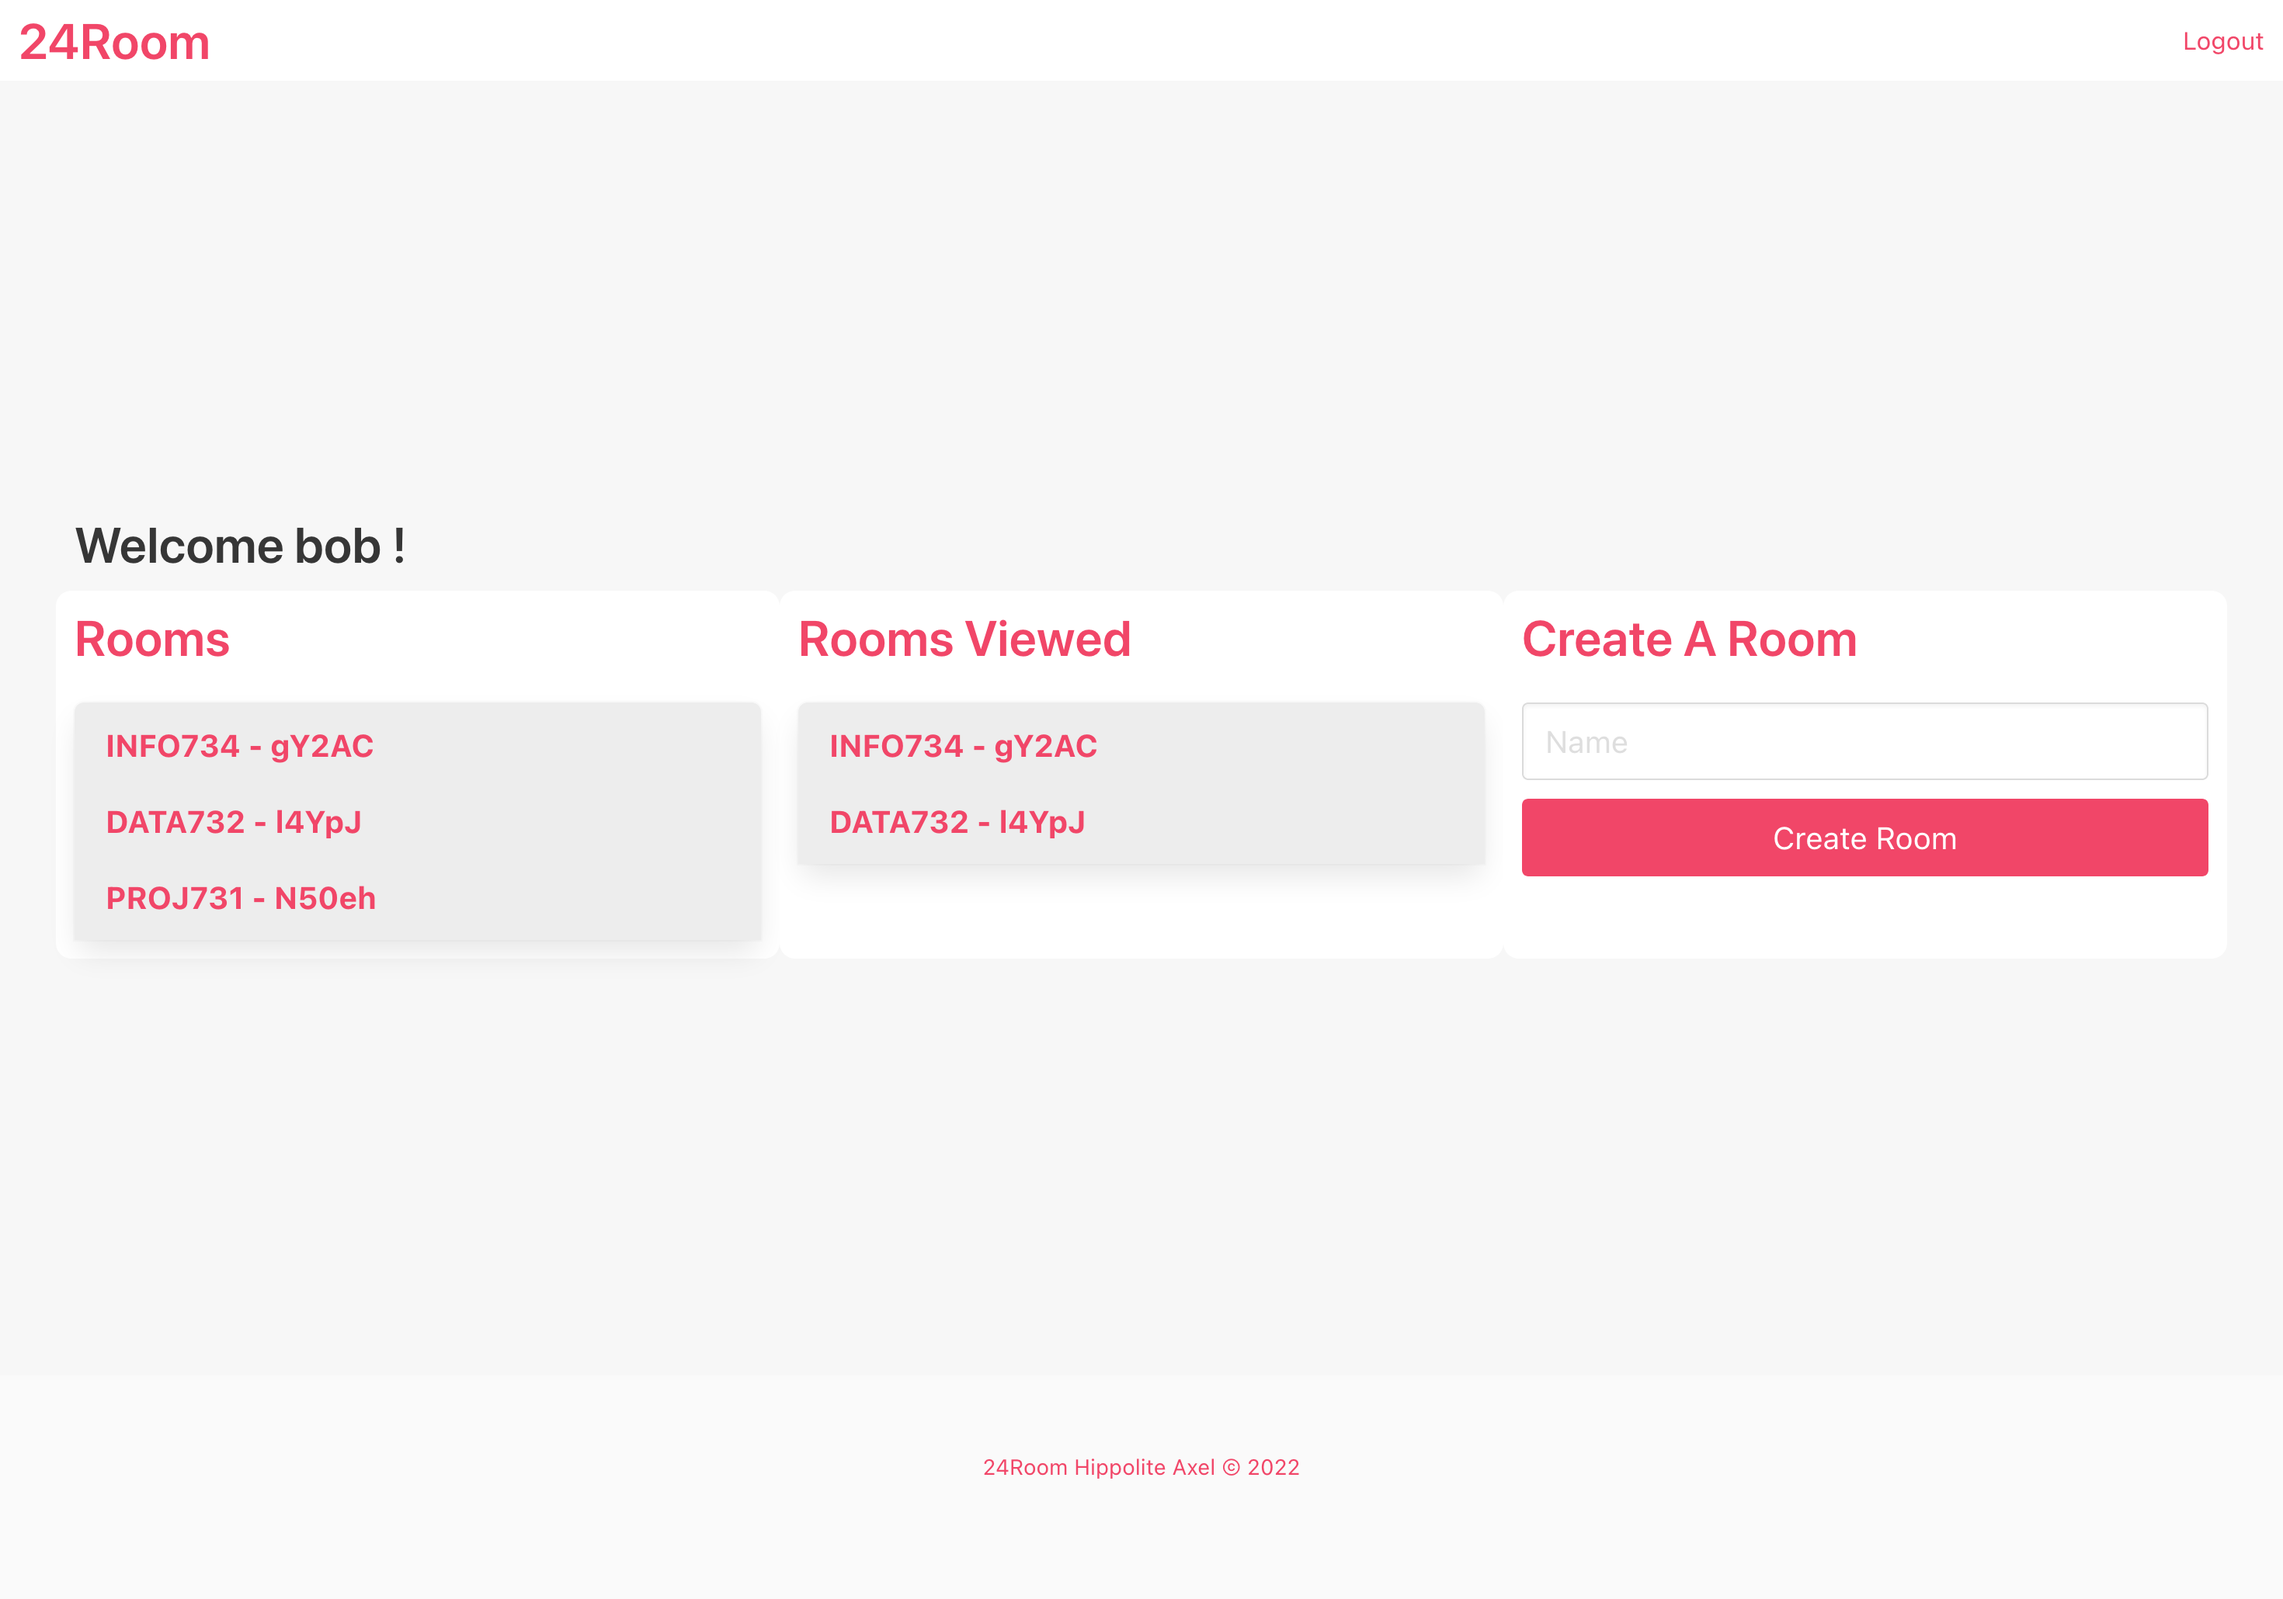
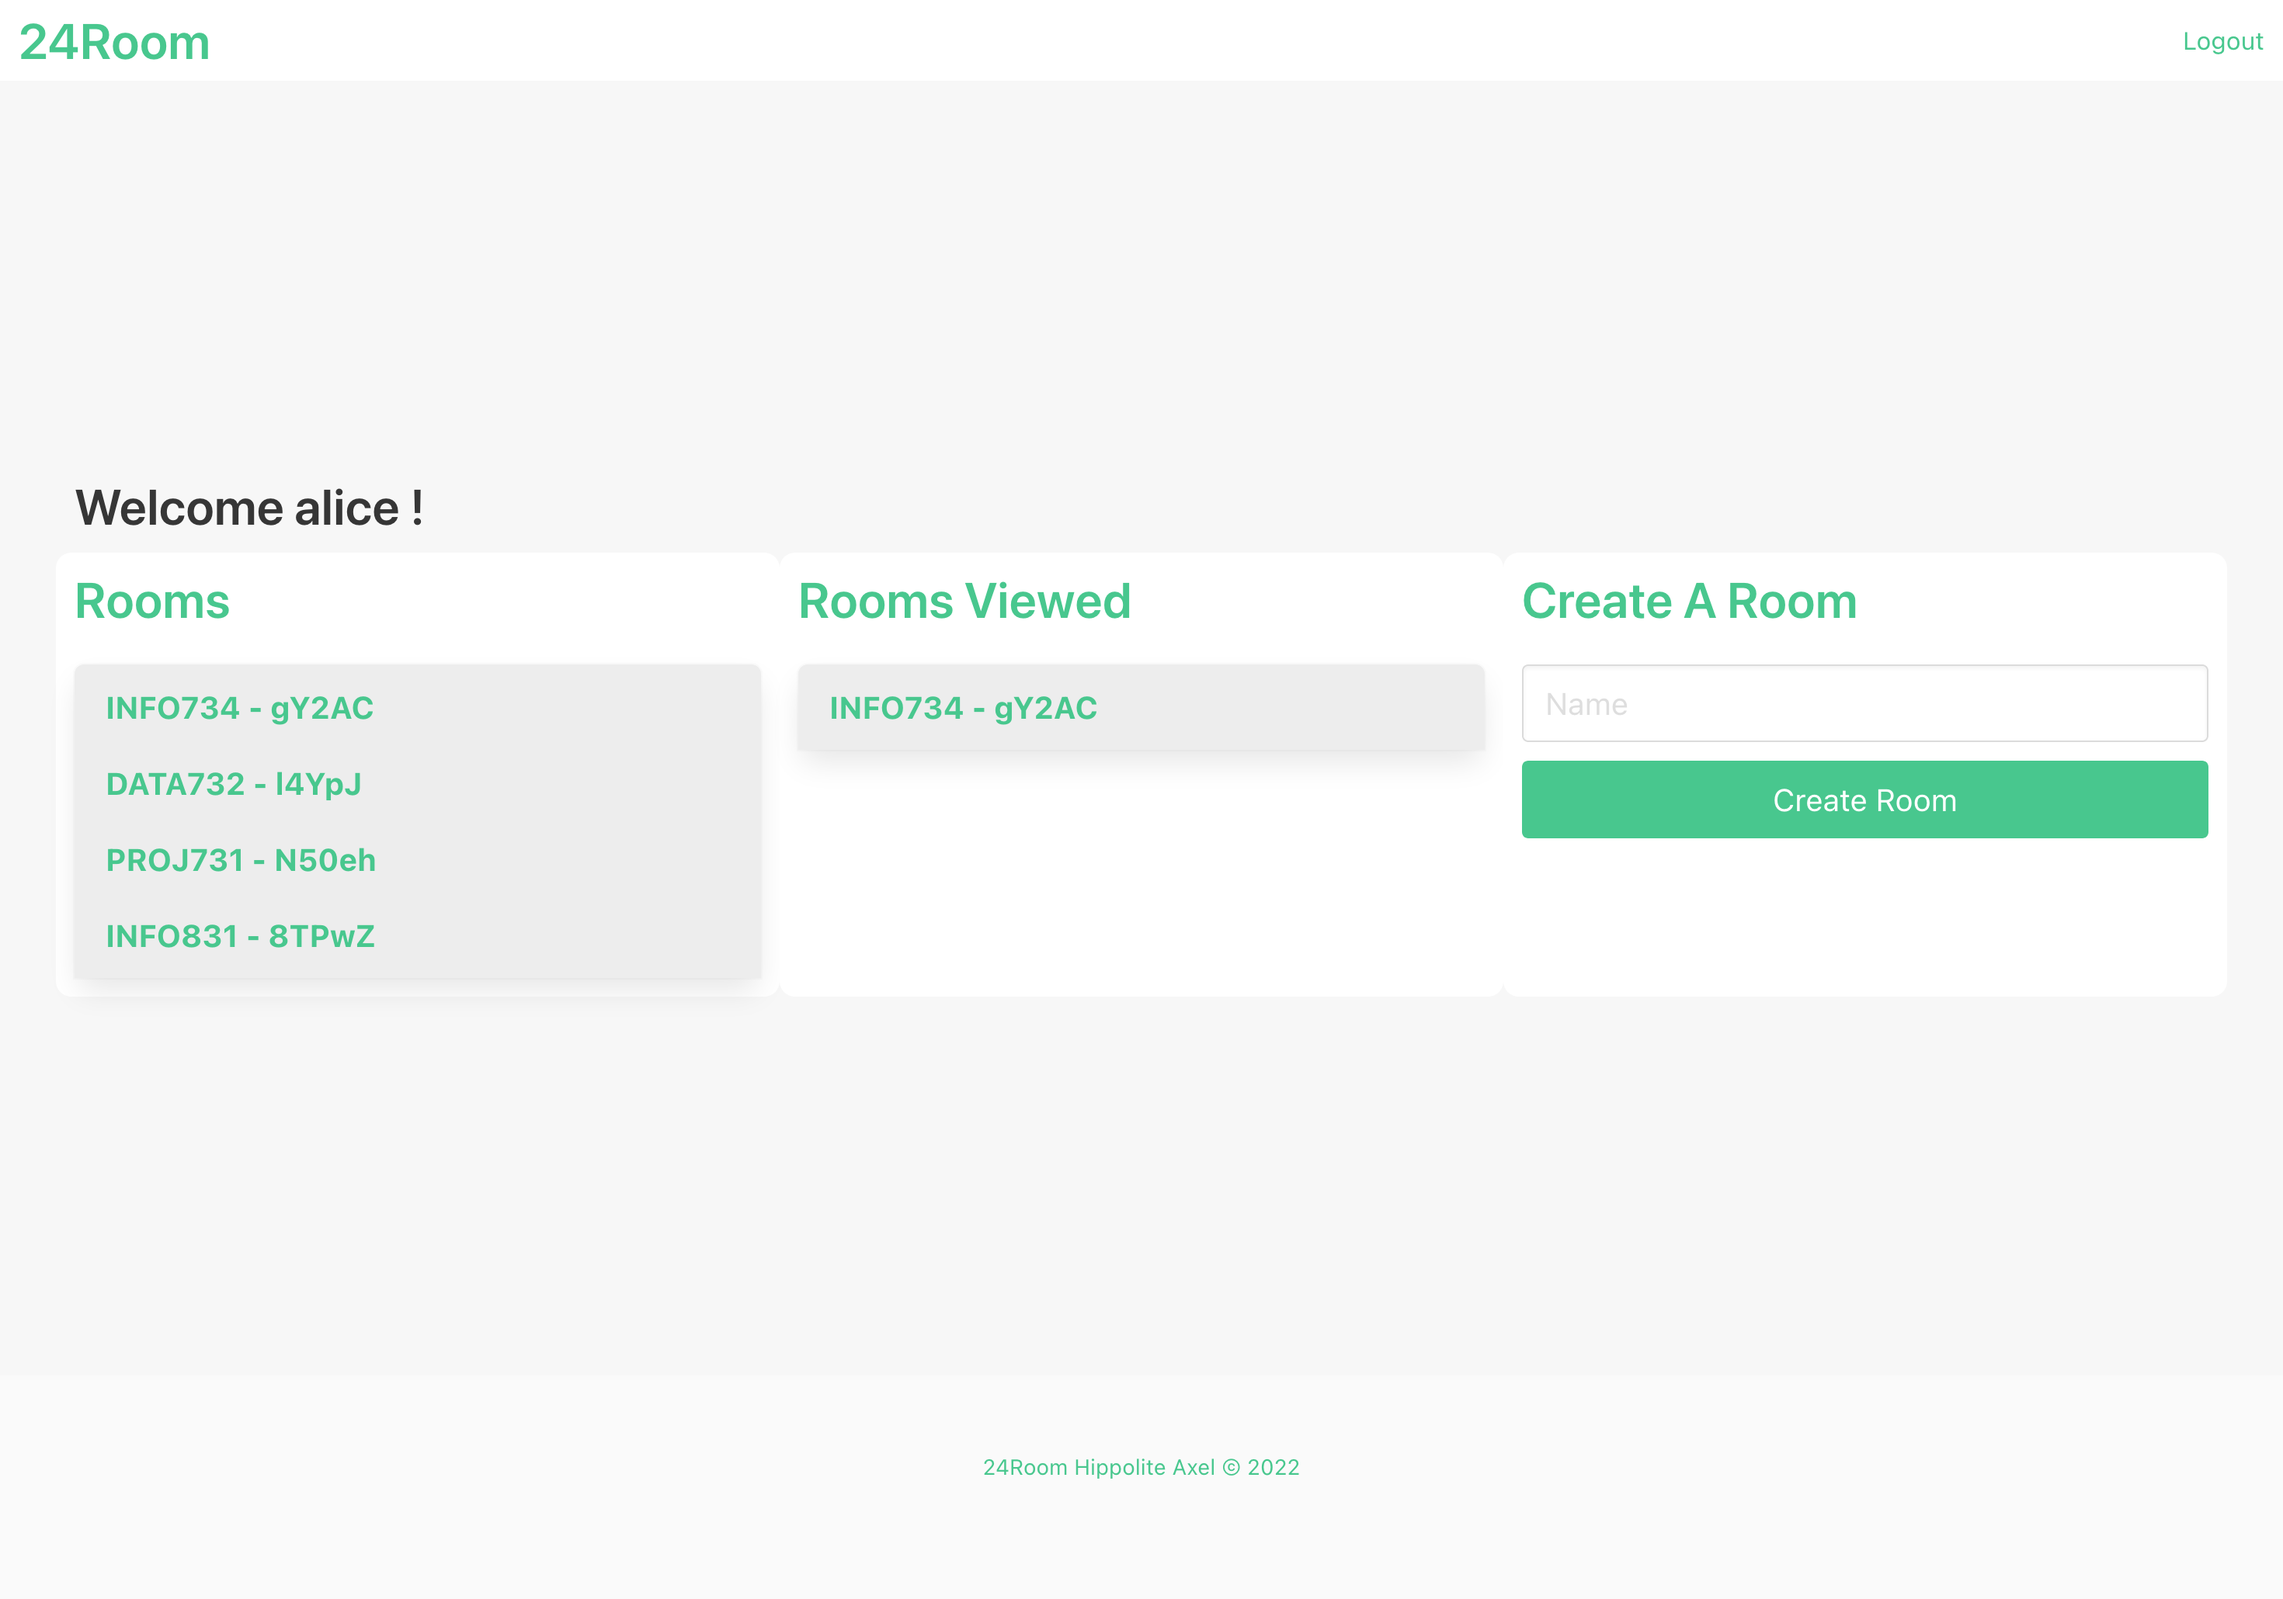
FixesV2

diff --git a/website/pages/home/index.js b/website/pages/home/index.js
@@ -61,15 +61,15 @@ const HomePage = ({showErrorMessage, showInfoMessage}) => {
             <Heading>Welcome {userData.username} !</Heading>
             <Columns>
                 <Columns.Column className="is-one-third case">
-                    <Heading className="has-text-danger">Rooms</Heading>
+                    <Heading className="has-text-success">Rooms</Heading>
                     <RoomsList rooms={roomsData} router={router}/>
                 </Columns.Column>
                 <Columns.Column className="is-one-third case">
-                    <Heading className="has-text-danger">Rooms Viewed</Heading>
+                    <Heading className="has-text-success">Rooms Viewed</Heading>
                     <RoomsList rooms={viewData} router={router}/>
                 </Columns.Column>
                 <Columns.Column className="is-one-third case">
-                    <Heading className="has-text-danger">Create A Room</Heading>
+                    <Heading className="has-text-success">Create A Room</Heading>
                     <RoomsForms showErrorMessage={showErrorMessage} showInfoMessage={showInfoMessage}/>
                 </Columns.Column>
             </Columns>

diff --git a/website/components/users/loginForm.js b/website/components/users/loginForm.js
@@ -63,8 +63,8 @@ export const LoginForm = ({showErrorMessage, showInfoMessage}) => { // Formulair
                                 value={connectionData.password} autoComplete="current-password"/>
                 </Form.Control>
             </Form.Field>
-            <Button onClick={logUserIn} className="is-block is-danger is-fullwidth is-medium">Sign In</Button><br></br>
-            <Button onClick={toSignUp} className="is-block is-danger is-fullwidth is-medium">Sign Up</Button>
+            <Button onClick={logUserIn} className="is-block is-success is-fullwidth is-medium">Sign In</Button><br></br>
+            <Button onClick={toSignUp} className="is-block is-success is-fullwidth is-medium">Sign Up</Button>
         </form>
     )
 }

diff --git a/website/components/navbar.js b/website/components/navbar.js
@@ -15,12 +15,12 @@ export const Navbar = ({router}) => {
         <BulmaNavbar className="isFixed">
             <BulmaNavbar.Brand>
                 <BulmaNavbar.Item>
-                    <Heading className='has-text-danger'>24Room</Heading>
+                    <Heading className='has-text-success'>24Room</Heading>
                 </BulmaNavbar.Item>
             </BulmaNavbar.Brand>
             <BulmaNavbar.Menu>
                 <div className="navbar-end">
-                    <a className="navbar-item has-text-danger" href="/logout">Logout</a>
+                    <a className="navbar-item has-text-success" href="/logout">Logout</a>
                 </div>
             </BulmaNavbar.Menu>
         </BulmaNavbar>

diff --git a/website/pages/room/index.js b/website/pages/room/index.js
@@ -61,7 +61,7 @@ const RoomPage = ({showErrorMessage, showInfoMessage}) => {
                         <MessageList messages={messages}/>
                     </Columns.Column>
                 </Columns><br></br>
-                <Button onClick={() => {router.replace('/home')}} className="is-block is-danger is-fullwidth is-medium">Return HOME</Button>
+                <Button onClick={() => {router.replace('/home')}} className="is-block is-success is-fullwidth is-medium">Return HOME</Button>
             </Columns.Column>
         </PageWrapper>
     );

diff --git a/website/components/users/signupForm.js b/website/components/users/signupForm.js
@@ -68,7 +68,7 @@ export const SignupForm = ({showErrorMessage, showInfoMessage}) => { // Formulai
                                 value={connectionData.password} autoComplete="current-password"/>
                 </Form.Control>
             </Form.Field><br></br>
-            <Button onClick={singUpUser} className="is-block is-danger is-fullwidth is-medium">Sign Up</Button>
+            <Button onClick={singUpUser} className="is-block is-success is-fullwidth is-medium">Sign Up</Button>
         </form>
     )
 }

diff --git a/website/pages/index.js b/website/pages/index.js
@@ -7,7 +7,7 @@ const IndexPage = ({showErrorMessage, showInfoMessage}) => {
     <Section>
       <Heading>24Room</Heading>
       <Columns>
-        <Columns.Column className="is-half has-background-danger">
+        <Columns.Column className="is-half has-background-success">
           <Heading className="has-text-white">Discover the World. But only for 24 Hours.</Heading>
         </Columns.Column>
         <Columns.Column className="is- half tp-notification">

diff --git a/website/components/footer.js b/website/components/footer.js
@@ -6,7 +6,7 @@ export const Footer = () => { //Footer de l'Application
             <Container>
                 <Level>
                     <Level.Item>
-                        <small className="level-item has-text-danger">
+                        <small className="level-item has-text-success">
                             24Room Hippolite Axel &copy; 2022
                         </small>
                     </Level.Item>

diff --git a/website/components/rooms/roomsForm.js b/website/components/rooms/roomsForm.js
@@ -61,7 +61,7 @@ export const RoomsForms = ({showErrorMessage, showInfoMessage}) => { // Formulai
                 </Form.Control>
             </Form.Field>
 
-            <Button onClick={createRoom} className="is-block is-danger is-fullwidth is-medium">Create Room</Button>
+            <Button onClick={createRoom} className="is-block is-success is-fullwidth is-medium">Create Room</Button>
         </form>
     )
 }

diff --git a/website/components/messages/messageForms.js b/website/components/messages/messageForms.js
@@ -52,7 +52,7 @@ export const MessageForm = ({socket, showErrorMessage}) => { // Formulaire de Me
                 </Form.Control>
             </Form.Field>
 
-            <Button onClick={sendMessage} className="is-block is-danger is-fullwidth is-medium">SEND</Button>
+            <Button onClick={sendMessage} className="is-block is-success is-fullwidth is-medium">SEND</Button>
         </form>
     )
 }

diff --git a/website/components/messages/messageList.js b/website/components/messages/messageList.js
@@ -2,7 +2,7 @@ import {Panel, Content} from "react-bulma-components";
 
 export const MessageList = ({messages}) => {
     return (
-        <Panel className="panel-heading has-text-danger">
+        <Panel className="panel-heading has-text-success">
             {messages.map((mes) => <Content>{mes.createdAt} : {mes.username} - {mes.content}</Content>)}
         </Panel>
     )

diff --git a/website/components/rooms/roomsList.js b/website/components/rooms/roomsList.js
@@ -5,7 +5,7 @@ function join(room, router){
 }
 export const RoomsList = ({rooms, router}) => {
     return (
-        <Panel className="panel-heading has-text-danger">
+        <Panel className="panel-heading has-text-success">
             {rooms.map((room) => <Content onClick={() => {join(room, router)}}>{room.name} - {room.code}</Content>)}
         </Panel>
     )
